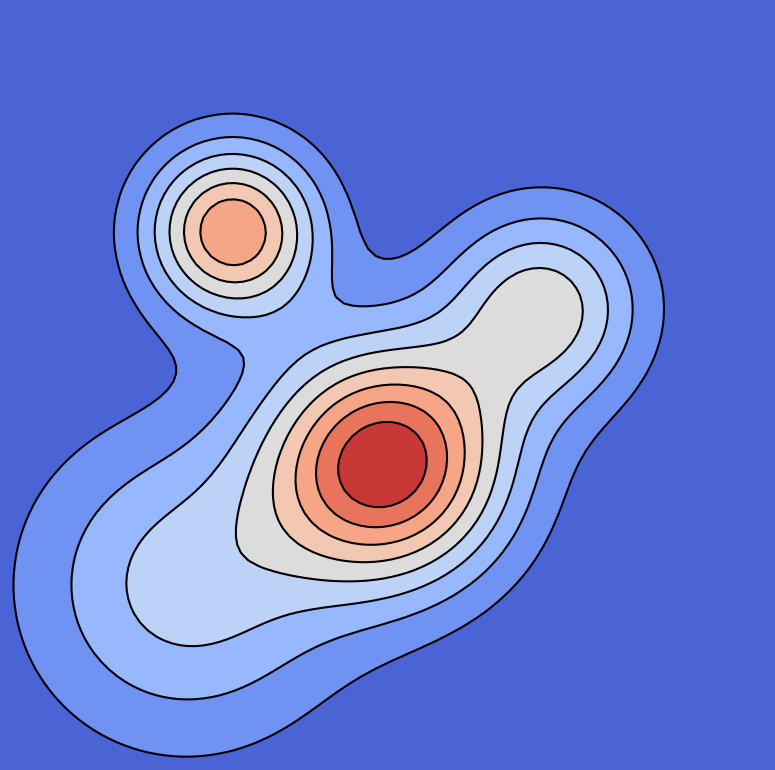
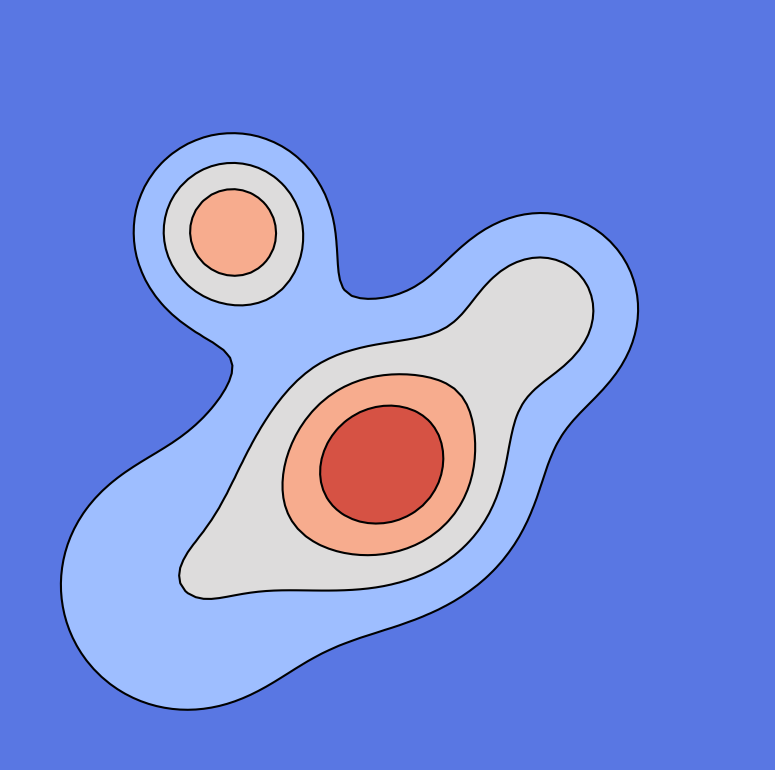
polygon added

Changed region(s): [[0.0, 0.1247, 0.8671, 0.9974]]

diff --git a/terrain_skimage.py b/terrain_skimage.py
@@ -7,19 +7,25 @@ from contour_map_function import generate_contour_function, generate_contour_ima
 import matplotlib.pyplot as plt
 from skimage.morphology import skeletonize
 
-WIDTH = 739
-HEIGHT = 744
+WIDTH = 750
+HEIGHT = 740
 COLORS = [Color.RED, Color.GREEN, Color.BLUE, Color.YELLOW, Color.ORANGE, Color.MAGENTA, Color.YELLOWGREEN, Color.CYAN]
 class Terrain(Scene2D):
     def __init__(self):
         super().__init__(WIDTH, HEIGHT, "Terrain")
+        # self.run_task_1 =False
+        # self.run_task_1_polygon = False
+
+        # if self.run_task_1:
         self.task1()  # Initialize the scene
 
     def task1(self):
         self.filename = generate_contour_image()
 
         # Load image in grayscale
+        self.img = cv2.imread("contour_maps/blurred2.png")
         self.img = cv2.imread(self.filename)
+
 
 
         # ***************** DETECT CONTOURS **********************
@@ -34,8 +40,7 @@ class Terrain(Scene2D):
         self.half_contours = self.contours[::2]
         # names = []
         self.count = 0
-        
-
+        self.count_points = 0
         # *************** DRAW IMAGE *********************
         # Image shape for normalization
         w,h = self.img.shape[1], self.img.shape[0]
@@ -56,8 +61,8 @@ class Terrain(Scene2D):
         # *************** DRAW CONTOURS *****************
         for contour in self.half_contours:
             self.pointset = PointSet2D(size=0.5)
+            self.sparse_pointset= PointSet2D(size=1)
             self.lineset = LineSet2D(width = 0.5)
-            self.polygon = Polygon2D()
             nx_minus1, ny_minus1 = None, None
             for pt in contour:
                 x_pixel, y_pixel = pt[0]
@@ -66,21 +71,30 @@ class Terrain(Scene2D):
                 ny = 2 * (y_pixel / h) - 1
                 pn = Point2D([nx,ny])
                 self.pointset.add(pn)
-                if nx_minus1 is not None and ny_minus1 is not None:
-                    pn_minus1 = Point2D([nx_minus1,ny_minus1])
-                    self.lineset.add(Line2D(pn,pn_minus1,color=Color.GREEN) )
-                nx_minus1, ny_minus1 = nx, ny
+                if nx_minus1 is not None and ny_minus1 is not None: 
+                # if self.count_points%40 !=0:
+                    pn_minus1 = Point2D([nx_minus1,ny_minus1],color=Color.RED)
+                    self.lineset.add(Line2D(pn,pn_minus1,color=Color.BLACK))
 
+                    if self.count_points%5 ==0:
+                        self.sparse_pointset.add(pn_minus1)
+                nx_minus1, ny_minus1 = nx, ny
+                self.count_points +=1 
+            print(f"number of points in {self.count}th contour:",len(self.sparse_pointset.points))
             self.name = f"contour_{self.count}"
-            # self.addShape(self.pointset, self.name)
+            self.addShape(self.lineset)
+            self.addShape(self.sparse_pointset, self.name)
+            
+            self.polygon = Polygon2D(self.sparse_pointset, width =0.5,reorderIfNecessary = False,color=Color.RED)
+            self.addShape(self.polygon) 
             # names.append(self.name)
 
-            self.addShape(self.lineset)
             
             self.count += 1
 
         # self.names = names  # store for later if needed
 
+    
 
 if __name__ == "__main__":
     app = Terrain()

diff --git a/contour_map_function.py b/contour_map_function.py
@@ -20,7 +20,7 @@ def generate_contour_function():
 def generate_contour_image():
     X, Y, Z = generate_contour_function()
     plt.figure(figsize=(10, 10))
-    lv = np.linspace(Z.min(), Z.max(), 10)
+    lv = np.linspace(Z.min(), Z.max(), 6)
     plt.contourf(X, Y, Z, levels=lv, cmap='coolwarm')  # fills the areas between contour lines
     plt.contour(X, Y, Z, levels=lv, colors=['#000','#000']) # draws the contour lines black
     
